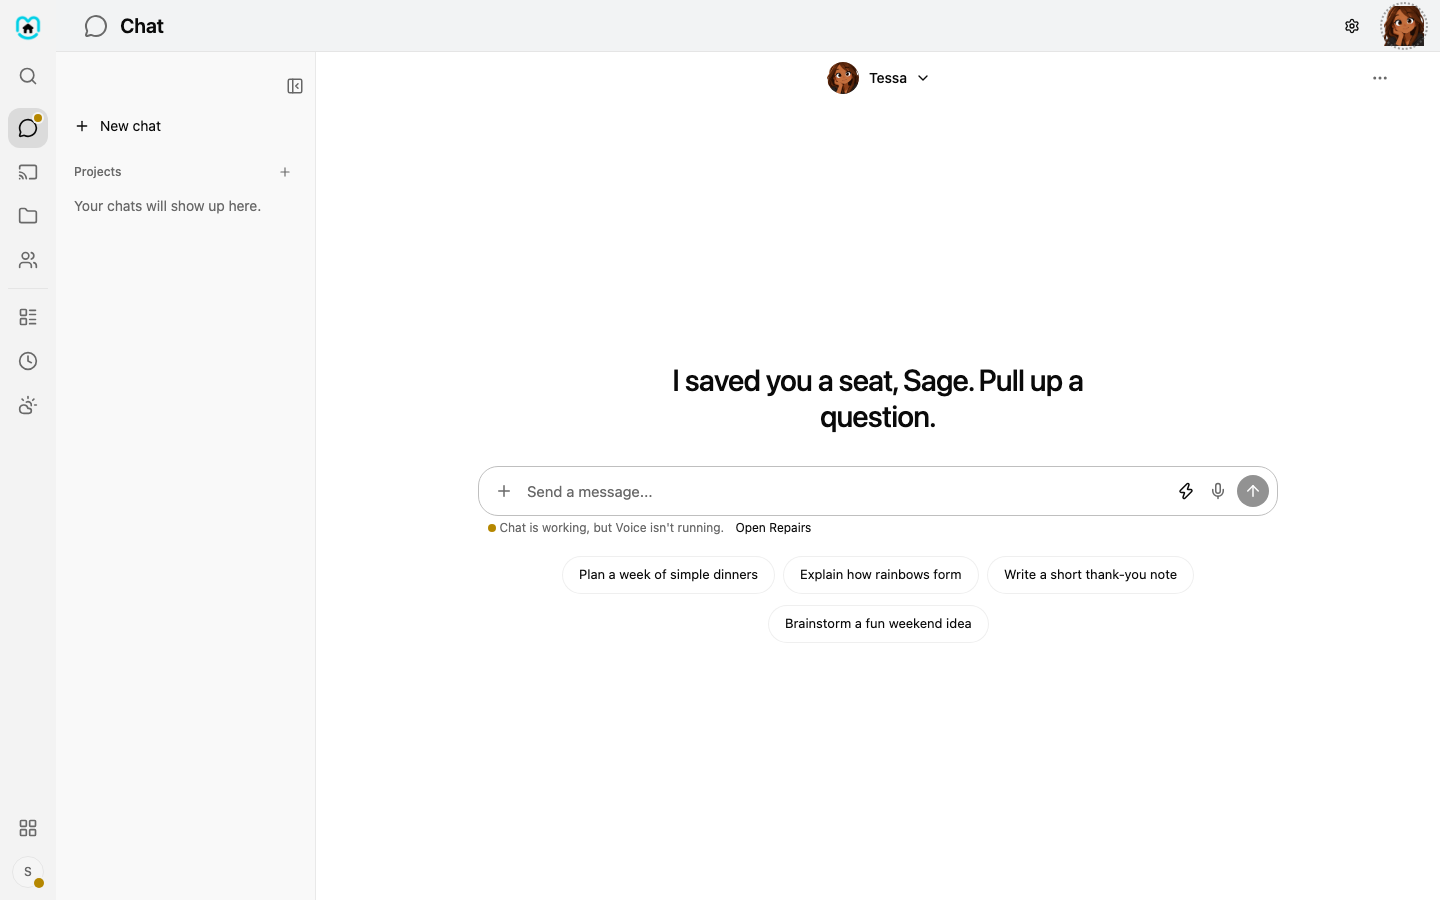
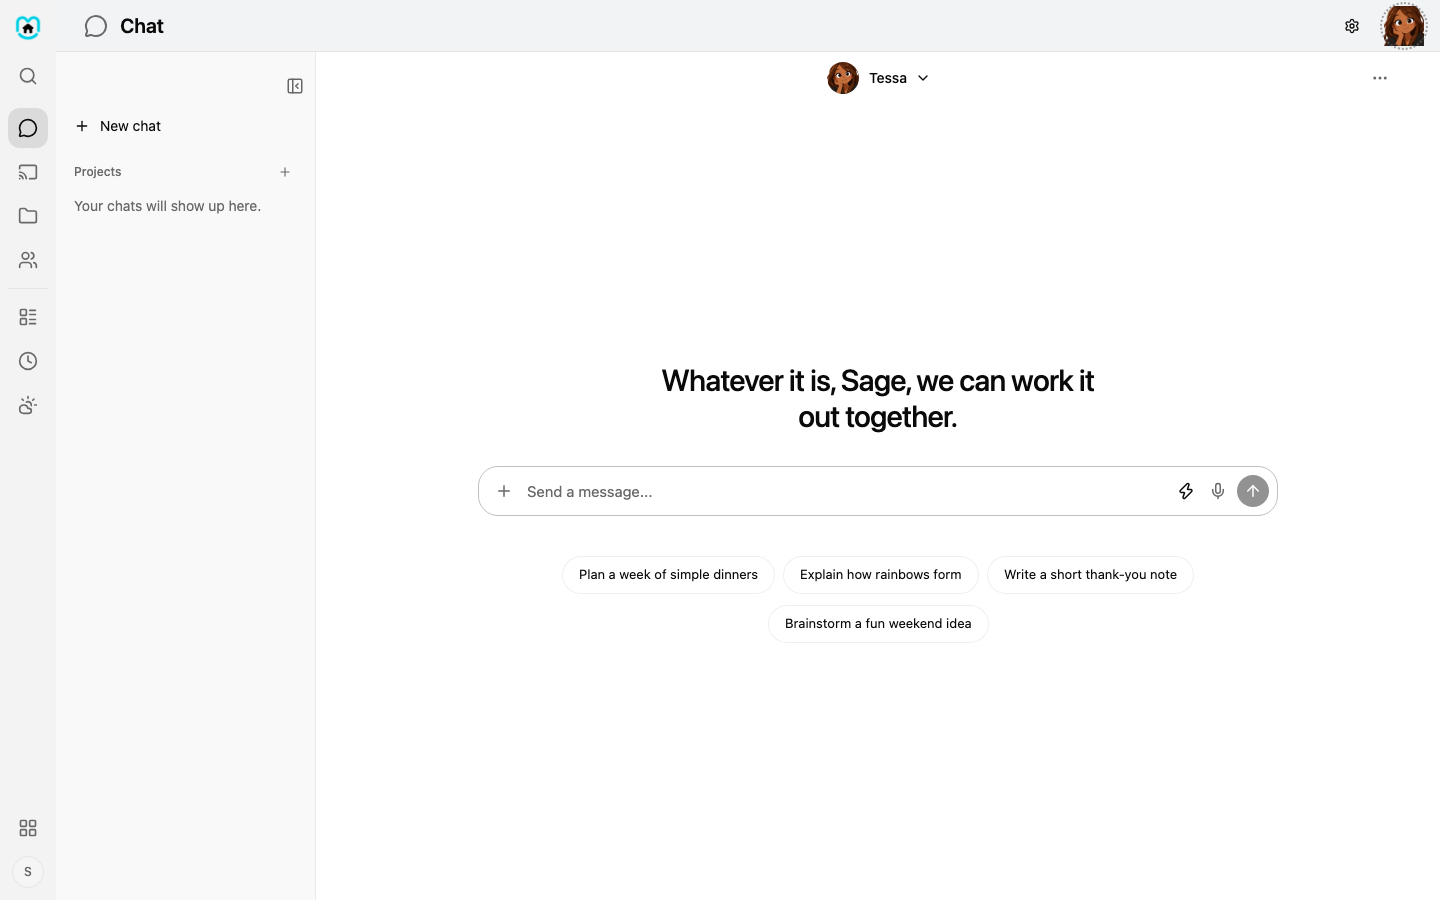
DOCS-SHOTS-01: docs captures stop timing out; retake chat-empty, chat-delete-menu, engines-another-computer
Causes: the thread list keeps a hidden measuring span, so the first text match was invisible (chat-delete-menu); the Engine computer link card moved to the Engines tab and the pairing dialog's dropdown no longer opens on a click (engines-another-computer, now driven by the real household setting); a chat with no media is deleted at once, so the exercise waited for a "Delete chat" button that never shows. chat-empty now shows the engines-ready state. The three pictures no page shows (family-child-limits, add-someone, settings-blocked-sites) are no longer captured. Two new pictures are used on the Send a message and Use another computer pages.

Changed region(s): [[0.4375, 0.4044, 0.7812, 0.4978], [0.3438, 0.56, 0.5625, 0.5911]]

diff --git a/scripts/screenshot.ts b/scripts/screenshot.ts
@@ -1568,15 +1568,18 @@ async function exerciseChat(page: import("playwright").Page, viewport: ViewportS
   await other.hover();
   await other.getByRole("button", { name: "More options" }).click();
   await page.getByRole("menuitem", { name: "Delete", exact: true }).click();
-  await page.getByRole("button", { name: "Delete chat", exact: true }).click();
-  // A bare `dialog` role, not scoped to this one's own name ("Delete
-  // chat"), started matching the phone thread list's own Sheet too
-  // once step 5b made that a real dialog-role element (spec.md
-  // "Layout": phone opens the thread list as a sheet) - the confirm
-  // dialog closes on delete, but that outer sheet correctly stays
-  // open, so an unscoped wait for "any dialog hidden" hung forever on
-  // the wrong one.
-  await page.getByRole("dialog", { name: "Delete chat" }).waitFor({ state: "hidden" });
+  // A chat that made no pictures or videos is deleted at once (chatDeleteMedia.tsx: the confirm dialog only asks about its
+  // media), so there is no "Delete chat" button to press. Wait for the row to go instead. A chat with media would show the
+  // alertdialog; answer it with the choice that deletes the chat so the step cannot hang on either shape.
+  const mediaAsk = page.getByRole("alertdialog");
+  const deleted = page.locator('[data-slot="aui_thread-list-item"]').filter({ hasText: "Help me choose a book" });
+  await Promise.race([
+    deleted.first().waitFor({ state: "detached", timeout: 15000 }),
+    mediaAsk.waitFor({ state: "visible", timeout: 15000 }).then(async () => {
+      await mediaAsk.getByRole("button", { name: /^Delete chat and/ }).click();
+      await deleted.first().waitFor({ state: "detached", timeout: 15000 });
+    }),
+  ]);
   await page.reload();
   await showThreads();
   await page.getByRole("button", { name: "Garden plans", exact: true }).waitFor();
@@ -10199,9 +10202,24 @@ async function captureDocsShots(browser: Browser, sessionValue: string): Promise
       await context.close();
     }
   }
+  // The throwaway backend has no speech engine, so the chat composer notice would read "Voice isn't running". Show the state a
+  // working home has: every engine need up (the same fixture idea as the chat ready/paused review, which sets the voice row ready).
+  const engineNeedsReady = async (page: import("playwright").Page) => {
+    await page.route("**/api/status/apps", async (route) => {
+      const response = await route.fetch();
+      const apps = (await response.json()) as Array<{ state: string; reason: string | null; needs?: Array<{ state: string }> }>;
+      for (const app of apps) {
+        app.state = "operational";
+        app.reason = null;
+        for (const need of app.needs ?? []) need.state = "operational";
+      }
+      await route.fulfill({ response, json: apps });
+    });
+  };
   const ready = async (page: import("playwright").Page, path: string, text: string | RegExp) => {
     await page.goto(`${BASE_URL}${path}`);
-    await page.getByText(text).first().waitFor({ timeout: 15000 });
+    // The first text match can be a hidden measuring span (the thread list keeps one), so wait for a visible match.
+    await page.getByText(text).locator("visible=true").first().waitFor({ timeout: 15000 });
     await page.locator('[role="status"]').first().waitFor({ state: "detached", timeout: 3000 }).catch(() => {});
   };
 
@@ -10259,7 +10277,9 @@ async function captureDocsShots(browser: Browser, sessionValue: string): Promise
   // Chat: an empty first chat, and the delete menu on a saved chat.
   await fetch(`${BASE_URL}/api/conversations/clear`, { method: "POST", headers: { "Content-Type": "application/json", ...cookie }, body: "{}" });
   await shot("chat-empty", desktop, "light", async (page) => {
+    await engineNeedsReady(page);
     await ready(page, "/chat", /New chat/);
+    await page.getByText(/Voice isn't running|Open Repairs/).first().waitFor({ state: "hidden", timeout: 10000 });
   });
   {
     const db = new Database(join(DATA_DIR, "hub.db"));
@@ -10269,22 +10289,18 @@ async function captureDocsShots(browser: Browser, sessionValue: string): Promise
     db.close();
   }
   await shot("chat-delete-menu", desktop, "light", async (page) => {
+    await engineNeedsReady(page);
     await ready(page, "/chat?conversation=conv-docsweekend1", /Weekend plans/);
+    await page.getByText(/Voice isn't running/).waitFor({ state: "hidden", timeout: 10000 });
     const row = page.locator('[data-slot="aui_thread-list-item"]').filter({ hasText: "Weekend plans" });
     await row.hover();
     await row.locator('[data-slot="aui_thread-list-item-more"]').click();
     await page.getByRole("menuitem", { name: /Delete/ }).waitFor({ timeout: 10000 });
   });
 
-  // Family: the page, a child's profile with Limits and Topics, add someone.
+  // Family: the page and a child's Topics tab (Limits and add someone had no page that shows them, so they are not captured).
   await shot("family", desktop, "light", async (page) => {
     await ready(page, "/people", "Nova");
-  });
-  await shot("family-child-limits", desktop, "light", async (page) => {
-    await ready(page, "/people", "Nova");
-    await page.getByText("Nova", { exact: true }).first().click();
-    await page.getByRole("tab", { name: "Limits" }).click();
-    await settleAnimations(page);
   });
   await shot("family-child-topics", desktop, "light", async (page) => {
     await ready(page, "/people", "Nova");
@@ -10304,22 +10320,12 @@ async function captureDocsShots(browser: Browser, sessionValue: string): Promise
     await page.getByRole("button", { name: "Clear all" }).click();
     await page.getByRole("alertdialog").or(page.getByRole("dialog")).first().waitFor({ timeout: 10000 });
   });
-  await shot("add-someone", desktop, "light", async (page) => {
-    await ready(page, "/users", "Add");
-    await page.getByRole("button", { name: /Add someone|Add person|Add/ }).first().click();
-    await page.getByRole("combobox").first().waitFor({ timeout: 10000 });
-  });
-
   // Settings pages.
   await shot("settings-ease", desktop, "light", async (page) => {
     await ready(page, "/settings/account/appearance", /Comfort style/);
   });
   await shot("settings-search", desktop, "light", async (page) => {
     await ready(page, "/settings/home/search", /Search/);
-  });
-  await shot("settings-blocked-sites", desktop, "light", async (page) => {
-    await ready(page, "/settings/home/search", /Blocked sites/i);
-    await page.locator('[id="settings-household.blocked_sites"]').scrollIntoViewIfNeeded().catch(() => {});
   });
   await shot("settings-network", desktop, "light", async (page) => {
     await ready(page, "/settings/home/network", /Network and access/);
@@ -10351,16 +10357,33 @@ async function captureDocsShots(browser: Browser, sessionValue: string): Promise
     await page.getByRole("tab", { name: "Engines" }).click();
     await settleAnimations(page);
   });
-  await shot("engines-another-computer", desktop, "light", async (page) => {
-    await ready(page, "/settings/home/ai", /Engine computer link/);
-    await page.getByRole("button", { name: "Pair engine computer" }).click();
-    await page.getByRole("dialog").first().waitFor({ timeout: 10000 });
-    await settleAnimations(page);
-    await page.locator("#pair-where").click({ timeout: 8000 });
-    await page.getByRole("option", { name: "Another computer" }).click({ timeout: 8000 });
-    await page.getByRole("dialog").getByRole("button", { name: "Next", exact: true }).click({ timeout: 8000 });
-    await page.getByText("Engine computer name or address").waitFor({ timeout: 10000 });
-  });
+  // The pairing dialog opens with "Where the engine runs" set from the household setting (EngineLinkCredentialSection begin()). The
+  // dialog's own dropdown does not open on a click in the dev hub (the same kit select opens fine on the page; filed in the DOCS-SHOTS-01
+  // report), so the capture sets the real setting the person would have chosen and checks the dialog shows it, instead of driving
+  // the dropdown. The setting is put back afterwards.
+  {
+    const whereRows: unknown = await (await fetch(`${BASE_URL}/api/settings?scope=household`, { headers: cookie })).json().catch(() => []);
+    const before = (Array.isArray(whereRows) ? (whereRows as Array<{ key: string; value: unknown }>).find((row) => row.key === "engines.stack.where")?.value : undefined) ?? "this_computer";
+    const putWhere = (value: unknown) => fetch(`${BASE_URL}/api/settings`, { method: "PUT", headers: { "Content-Type": "application/json", ...cookie }, body: JSON.stringify({ scope: "household", key: "engines.stack.where", value }) });
+    await putWhere("another_computer");
+    await shot("engines-another-computer", desktop, "light", async (page) => {
+      // The Engine computer link card lives on the Engines tab, so open the tab before looking for it.
+      await ready(page, "/settings/home/ai", /AI and models/);
+      await page.getByRole("tab", { name: "Engines" }).click();
+      await page.getByText("Engine computer link").locator("visible=true").first().waitFor({ timeout: 15000 });
+      await page.getByRole("button", { name: "Pair engine computer" }).click();
+      const dialog = page.getByRole("dialog").first();
+      await dialog.waitFor({ timeout: 10000 });
+      await settleAnimations(page);
+      await dialog.getByRole("combobox", { name: "Where the engine runs" }).filter({ hasText: "Another computer" }).waitFor({ timeout: 8000 });
+      await dialog.getByRole("button", { name: "Next", exact: true }).click({ timeout: 8000 });
+      await page.getByText("Engine computer name or address").waitFor({ timeout: 10000 });
+      // An empty address shows the red "needs a value" border; the guide's own example address (documentation range) reads as a normal step.
+      await dialog.getByRole("textbox", { name: "Engine computer name or address" }).fill("192.0.2.20");
+      await settleAnimations(page);
+    });
+    await putWhere(before);
+  }
 
   // Backups with a real row, and Repairs with a Fix button.
   await shot("backups", desktop, "light", async (page) => {
